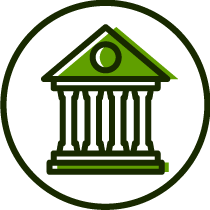
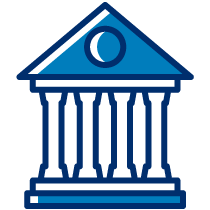
T1-549 Update For Partners tiles

diff --git a/src/client/components/organisms/section-nav/section-nav.jsx b/src/client/components/organisms/section-nav/section-nav.jsx
@@ -8,10 +8,7 @@ import { bindActionCreators } from 'redux'
 import constants from '../../../services/constants.js'
 import hurricaneIcon from 'assets/images/funding-programs/Funding_Programs_Icon_Disaster_white.png'
 import styles from './section-nav.scss'
-import whiteIconLenders from 'assets/images/for-partners/For_Partners_Icon_Lenders_white.png'
-import whiteIconSuretyProviders from 'assets/images/for-partners/For_Partners_Icon_Surety_Providers_white.png'
 import * as ModalActions from '../../../actions/show-modal.js'
-import { WhiteIconGrow, WhiteIconLaunch, WhiteIconManage, WhiteIconPlan } from 'atoms'
 
 const businessGuideFullUrl = '/business-guide'
 
@@ -21,22 +18,8 @@ class SectionNav extends React.Component {
       let sectionNavIcon
       const sectionTitle = this.getNthLineage(-2).title
       const titleConstants = constants.sectionTitles
-      if (sectionTitle === titleConstants.planYourBusiness) {
-        sectionNavIcon = WhiteIconPlan
-      } else if (sectionTitle === titleConstants.launchYourBusiness) {
-        sectionNavIcon = WhiteIconLaunch
-      } else if (sectionTitle === titleConstants.manageYourBusiness) {
-        sectionNavIcon = WhiteIconManage
-      } else if (sectionTitle === titleConstants.growYourBusiness) {
-        sectionNavIcon = WhiteIconGrow
-      } else if (sectionTitle === titleConstants.disasterAssistance) {
+      if (sectionTitle === titleConstants.disasterAssistance) {
         sectionNavIcon = hurricaneIcon
-      } else if (sectionTitle === titleConstants.suretyProviders) {
-        sectionNavIcon = whiteIconSuretyProviders
-      } else if (sectionTitle === titleConstants.lenders) {
-        sectionNavIcon = whiteIconLenders
-      } else {
-        sectionNavIcon = WhiteIconGrow
       }
       this.props.actions.showMobileSectionNav(this.getNthLineage(-2), sectionNavIcon, this.getBacklinkUrl())
     }
@@ -139,5 +122,6 @@ function mapDispatchToProps(dispatch) {
     actions: bindActionCreators(ModalActions, dispatch)
   }
 }
+
 export default connect(mapReduxStateToProps, mapDispatchToProps)(SectionNav)
 export { SectionNav }

diff --git a/src/client/components/organisms/for-partners-tile-collection/icons.jsx b/src/client/components/organisms/for-partners-tile-collection/icons.jsx
@@ -1,28 +1,22 @@
 import forPartnersIconLendersColor from 'assets/images/for-partners/For_Partners_Icon_Lenders_color.png'
-import forPartnersIconLendersWhite from 'assets/images/for-partners/For_Partners_Icon_Lenders_white.png'
 import forPartnersIconSBICsColor from 'assets/images/for-partners/For_Partners_Icon_SBICs_color.png'
 import forPartnersIconSBICsWhite from 'assets/images/for-partners/For_Partners_Icon_SBICs_white.png'
 import forPartnersIconSuretyProvidersColor from 'assets/images/for-partners/For_Partners_Icon_Surety_Providers_color.png'
-import forPartnersIconSuretyProvidersWhite from 'assets/images/for-partners/For_Partners_Icon_Surety_Providers_white.png'
 import forPartnersIconContractingOfficialsColor from 'assets/images/for-partners/For_Partners_Icon_Contracting_Officials_color.png'
-import forPartnersIconContractingOfficialsWhite from 'assets/images/for-partners/For_Partners_Icon_Contracting_Officials_white.png'
 
-let fundingProgramIcons = [
+const fundingProgramIcons = [
   {
-    icon: forPartnersIconLendersColor,
-    iconWhite: forPartnersIconLendersWhite
+    icon: forPartnersIconLendersColor
   },
   {
     icon: forPartnersIconSBICsColor,
     iconWhite: forPartnersIconSBICsWhite
   },
   {
-    icon: forPartnersIconSuretyProvidersColor,
-    iconWhite: forPartnersIconSuretyProvidersWhite
+    icon: forPartnersIconSuretyProvidersColor
   },
   {
-    icon: forPartnersIconContractingOfficialsColor,
-    iconWhite: forPartnersIconContractingOfficialsWhite
+    icon: forPartnersIconContractingOfficialsColor
   }
 ]
 

diff --git a/src/client/components/molecules/menu-tile/menu-tile.scss b/src/client/components/molecules/menu-tile/menu-tile.scss
@@ -59,7 +59,9 @@
 }
 
 .titleInverse {
-  color: white;
+  h3 {
+    color: white;
+  }
 }
 
 .rightArrow {
@@ -81,10 +83,6 @@
   @include for-small-only {
     margin: 0;
   }
-}
-
-.lineInverse {
-  border-color: white !important;
 }
 
 .blurb {

diff --git a/src/client/components/organisms/tile-collection/tile.scss b/src/client/components/organisms/tile-collection/tile.scss
@@ -17,6 +17,9 @@
   @include for-large-up {
     margin-top: 10px;
     margin-bottom: 30px;
+    &:hover {
+      background-color: $sba-blue;
+    }
   }
 }
 
